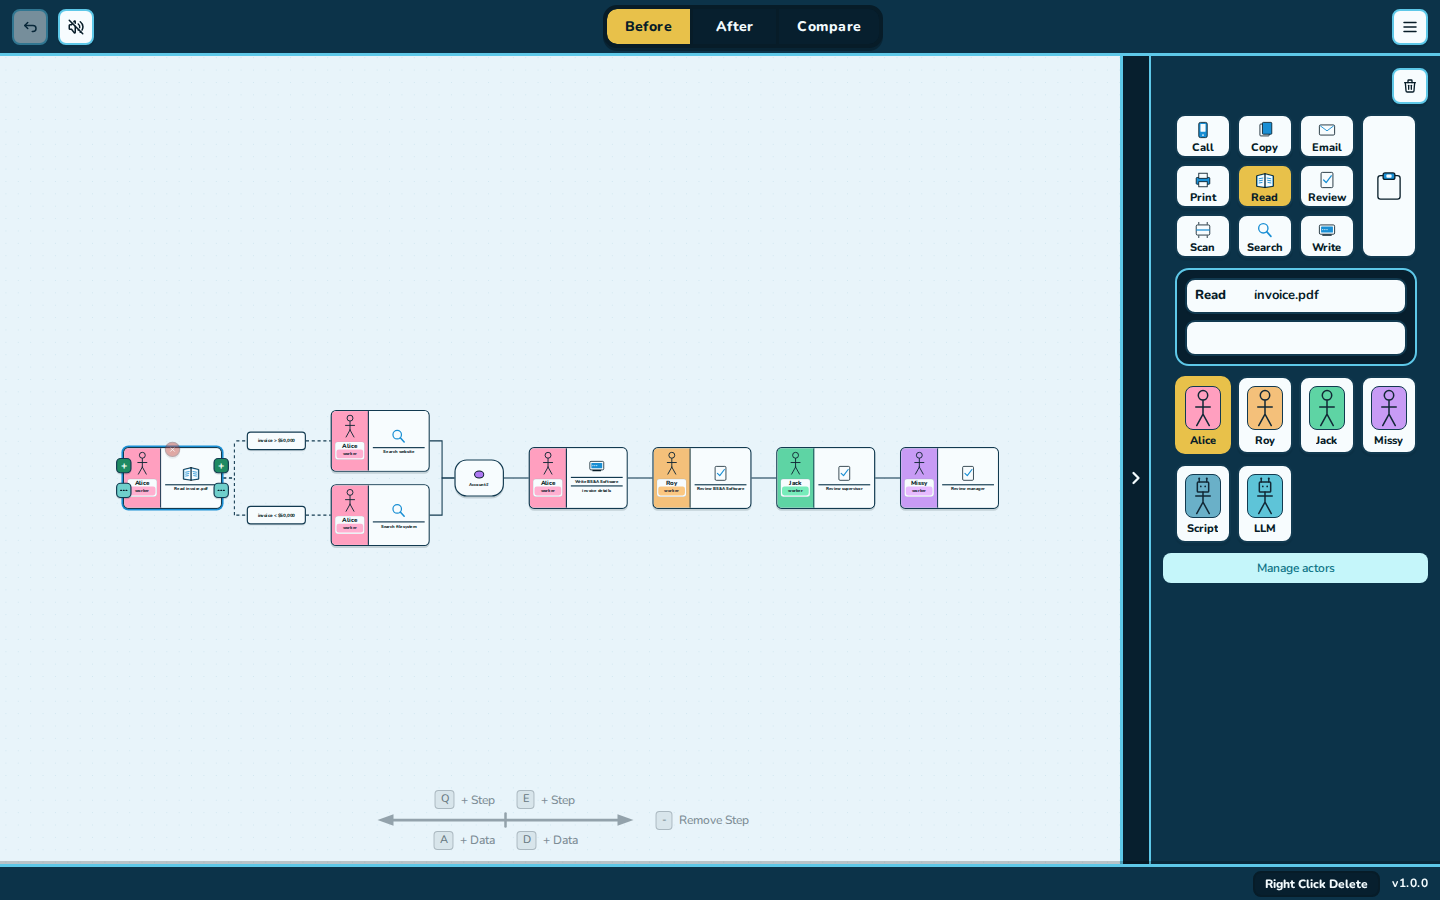
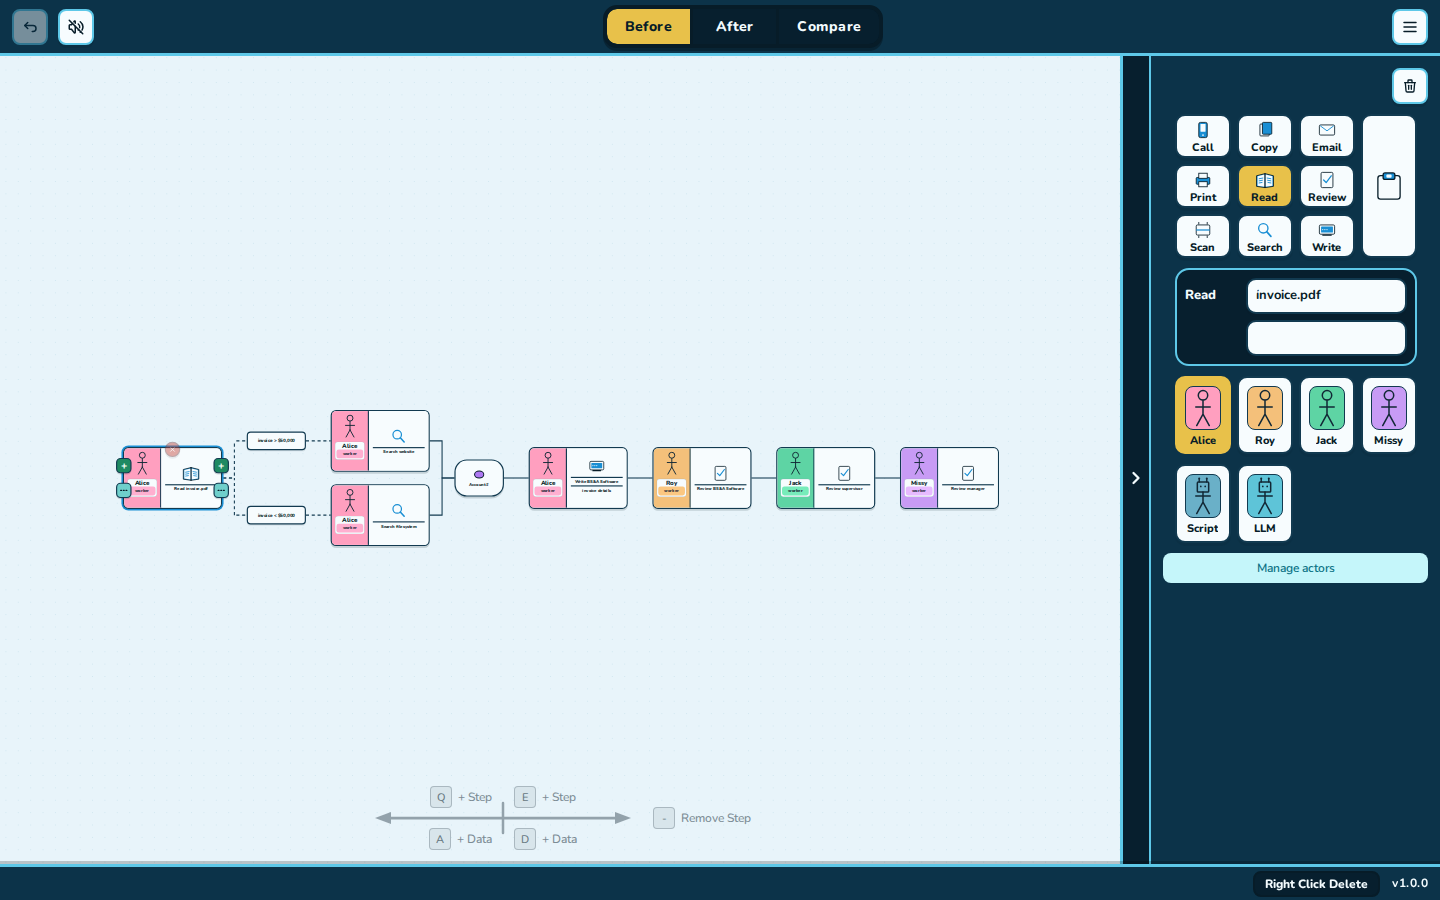
feat(improve-43): uniform hint keys and longer tick
Make canvas helper keycaps one height with square single-character keys, and stretch the compass tick so it actually crosses the Q/E and A/D rows.

Changed region(s): [[0.25, 0.8711, 0.4375, 0.9644], [0.8125, 0.3111, 0.9375, 0.4044], [0.4688, 0.9022, 0.5312, 0.9333]]

diff --git a/e2e/improve-43-spawn-compass.spec.ts b/e2e/improve-43-spawn-compass.spec.ts
@@ -22,11 +22,33 @@ test.describe("Improvement 43 — spawn hint compass", () => {
         shaftY2: shaft.getAttribute("y2"),
         tickX1: tick.getAttribute("x1"),
         tickX2: tick.getAttribute("x2"),
+        tickY1: tick.getAttribute("y1"),
+        tickY2: tick.getAttribute("y2"),
       };
     });
     expect(geom).toBeTruthy();
     expect(geom!.shaftY1).toBe(geom!.shaftY2);
     expect(geom!.tickX1).toBe(geom!.tickX2);
+    expect(Math.abs(Number(geom!.tickY2) - Number(geom!.tickY1))).toBeGreaterThan(24);
+
+    const keySizes = await page.locator(".canvas-helper kbd").evaluateAll((els) =>
+      els.map((el) => {
+        const b = el.getBoundingClientRect();
+        return {
+          text: (el.textContent ?? "").trim(),
+          w: Math.round(b.width * 10) / 10,
+          h: Math.round(b.height * 10) / 10,
+        };
+      }),
+    );
+    expect(keySizes.length).toBeGreaterThan(3);
+    const height = keySizes[0]!.h;
+    for (const k of keySizes) {
+      expect(k.h).toBe(height);
+    }
+    for (const k of keySizes.filter((k) => k.text.length <= 1)) {
+      expect(k.w).toBe(k.h);
+    }
     await capturePage(page, `${EVIDENCE}/spawn-compass-1440.png`);
   });
 });

diff --git a/src/app/components/CanvasHelper.tsx b/src/app/components/CanvasHelper.tsx
@@ -29,15 +29,15 @@ function SpawnArrows() {
     <svg
       className="canvas-helper-spawn-arrows"
       data-spawn-compass="true"
-      viewBox="0 0 268 18"
+      viewBox="0 0 268 32"
       width="268"
-      height="18"
+      height="32"
       aria-hidden
     >
-      <line x1="16" y1="9" x2="252" y2="9" stroke="currentColor" strokeWidth="2.75" strokeLinecap="round" />
-      <path d="M 22 3.2 L 6 9 L 22 14.8 Z" fill="currentColor" />
-      <path d="M 246 3.2 L 262 9 L 246 14.8 Z" fill="currentColor" />
-      <line x1="134" y1="2.4" x2="134" y2="15.6" stroke="currentColor" strokeWidth="2.5" strokeLinecap="round" />
+      <line x1="16" y1="16" x2="252" y2="16" stroke="currentColor" strokeWidth="2.75" strokeLinecap="round" />
+      <path d="M 22 10 L 6 16 L 22 22 Z" fill="currentColor" />
+      <path d="M 246 10 L 262 16 L 246 22 Z" fill="currentColor" />
+      <line x1="134" y1="1" x2="134" y2="31" stroke="currentColor" strokeWidth="2.5" strokeLinecap="round" />
     </svg>
   );
 }

diff --git a/src/app/styles/tokens.css b/src/app/styles/tokens.css
@@ -630,14 +630,21 @@ body.is-tile-dragging * {
 }
 
 .canvas-helper-chip kbd {
+  box-sizing: border-box;
+  display: inline-flex;
+  align-items: center;
+  justify-content: center;
   font-family: inherit;
   font-weight: 500;
   font-size: 11px;
+  line-height: 1;
   background: color-mix(in srgb, var(--ink) 7%, var(--paper));
   border: 1px solid color-mix(in srgb, var(--ink) 22%, transparent);
   border-radius: 4px;
-  padding: 1px 5px;
-  min-width: 1.3em;
+  width: auto;
+  min-width: 22px;
+  height: 22px;
+  padding: 0 5px;
   text-align: center;
   color: color-mix(in srgb, var(--ink) 58%, var(--paper));
 }
@@ -668,7 +675,8 @@ body.is-tile-dragging * {
 .canvas-helper-spawn-arrows {
   display: block;
   width: min(268px, 72vw);
-  height: 18px;
+  height: 32px;
+  margin: -8px 0;
   color: inherit;
   opacity: 0.78;
   overflow: visible;

diff --git a/src/app/components/CanvasHelper.test.tsx b/src/app/components/CanvasHelper.test.tsx
@@ -56,6 +56,7 @@ test("selected Tile spawn hints are Q/E Step and A/D Data with direction arrows"
   const tick = svg?.querySelectorAll("line")[1];
   expect(shaft?.getAttribute("y1")).toBe(shaft?.getAttribute("y2"));
   expect(tick?.getAttribute("x1")).toBe(tick?.getAttribute("x2"));
+  expect(Math.abs(Number(tick?.getAttribute("y2")) - Number(tick?.getAttribute("y1")))).toBeGreaterThan(24);
   expect(text).not.toMatch(/\|/);
   expect(host.textContent ?? "").toMatch(/Remove Step/);
   expect(host.textContent ?? "").not.toMatch(/Right-click/);

diff --git a/.docs/handoff.md b/.docs/handoff.md
@@ -2336,3 +2336,14 @@ Corrections in the same chat before the next slice starts get their own short en
 - Status: COMPLETE
 - Commit: `feat(improve-46): cluster Type Who and Scan`
 
+## Improvement 43 — correction 2 — 2026-09-09
+
+- Requested: Hotkey boxes were not one size; the compass tick was too short.
+- Changed: Canvas helper `kbd` is 22px tall with a 22px min-width (single-character keys are square). Compass tick spans the full 32px strip and overlaps the Step/Data rows.
+- Tests and exact results:
+  - `npm run build` — pass (`tsc --noEmit && vite build`; Vite 8.2.2; existing chunk-size warning). Node 24.
+  - `npm run test:unit` — CanvasHelper 3 tests pass.
+  - `npm run test:e2e` — `e2e/improve-43-spawn-compass.spec.ts` (2) pass. Single-character hint keys are square; tick length > 24.
+- Status: COMPLETE
+- Commit: `feat(improve-43): uniform hint keys and longer tick`
+

diff --git a/.docs/VISUAL_IMPROVEMENTS.md b/.docs/VISUAL_IMPROVEMENTS.md
@@ -288,3 +288,10 @@ Newest last. Issue and resolution stay short. No after-screenshots for gestures.
 - Attachments:
   ![spawn compass wobbly](.docs/visual-improvements/2026-09-09-spawn-compass-wobbly.png)
 
+## 2026-09-09 — spawn hint keys and tick
+
+- Issue: Hotkey boxes are not one size (Q/E taller, minus wider) and the compass tick is a stub.
+- Resolution: Uniform 20px-tall keycaps (single-character keys are square); the center tick is a full-height cross.
+- Attachments:
+  ![spawn hint keys](.docs/visual-improvements/2026-09-09-spawn-hint-keys.png)
+
